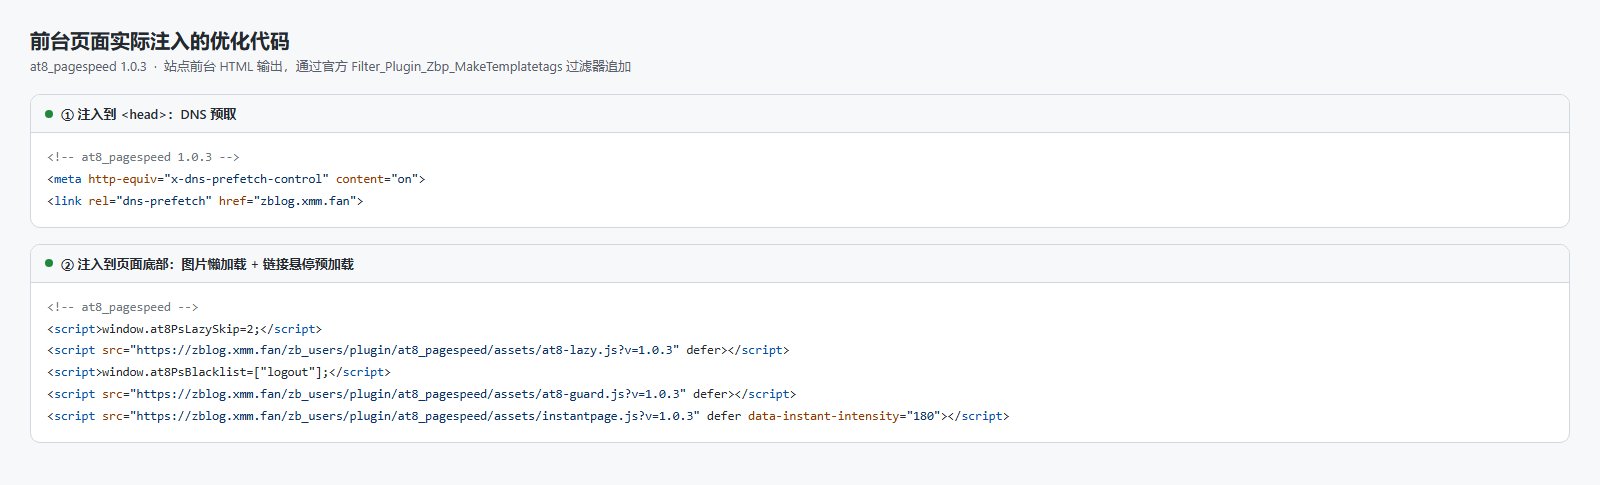
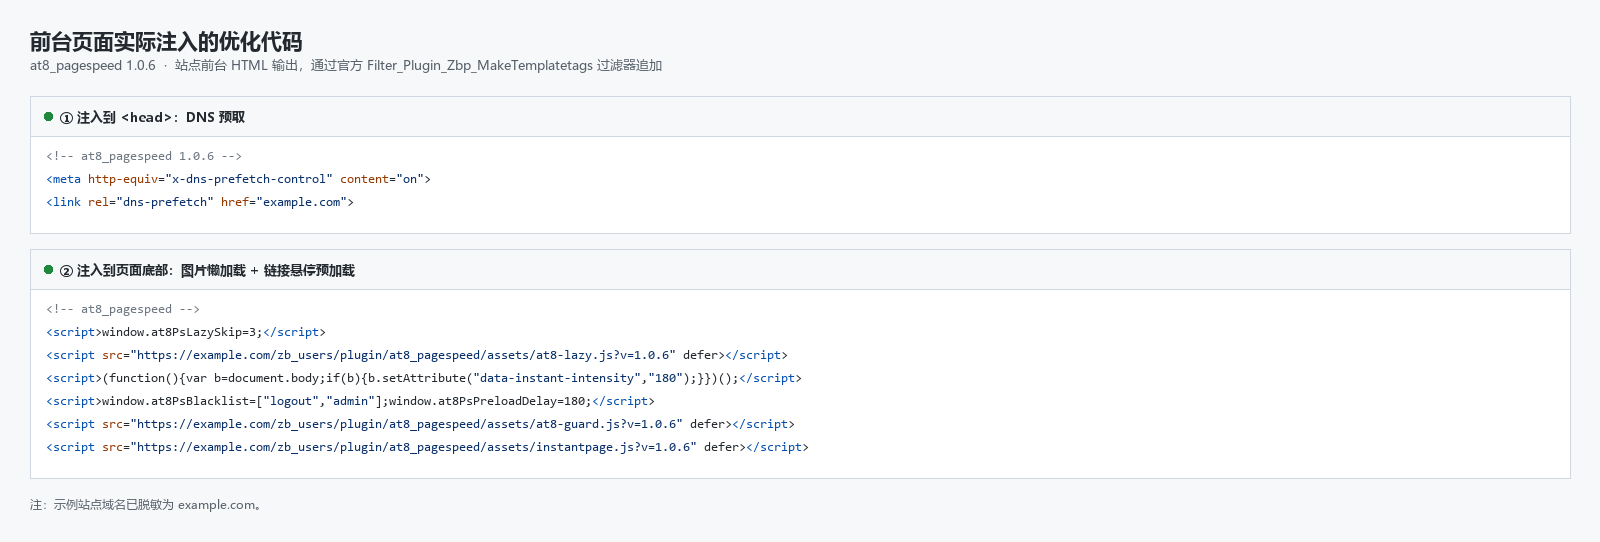
docs(合规收尾): README/CHANGELOG/RELEASE_CHECKLIST 清理 PHP 5.x 遗留表述、统一最低 PHP 为 7.4；刷新脱敏后的上架截图 (v1.0.6)

diff --git a/CHANGELOG.md b/CHANGELOG.md
@@ -20,7 +20,7 @@
   3. 源码未使用任何 PHP 8.0+ 专有语法——已全量扫描确认无 `?->`、`match` 表达式、
      `str_contains` / `str_starts_with` / `str_ends_with`、`#[Attribute]`、构造器提升、
      联合类型、`enum`、`readonly`、`never`、命名参数。
-  原先声明 5.6 属「语法够用即放行」，现改为只放行做过兼容性承诺的版本区间。
+  原先按「语法够用即放行」声明，现改为只放行做过兼容性承诺的版本区间。
 - **DNS 预取域名改为「保存时即归一化」**（纵深防御）：
   原先只在输出到前台时校验，库里存的是用户原始输入（含 `not a domain`、`http://evil.com/x`、
   `<script>alert(1)</script>` 这类脏数据）。现抽出 `at8_pagespeed_normalize_domain()`，
@@ -74,9 +74,7 @@
     与「不承诺固定提速数值」。
 
 - **元数据**：
-  - `<phpver>` 的依据注释与源码注释对齐：代码语法与函数最低要求 5.4（`JSON_UNESCAPED_UNICODE`），
-    声明下限取 **5.6**——5.4 / 5.5 未做实测故不作兼容承诺（原注释写「仅使用 PHP 5.4+ 通用语法」但声明 5.6，
-    理由与取值不一致）；
+  - `<phpver>` 的依据注释与源码注释对齐（当时声明的 PHP 下限已于 **1.0.5** 提高至 **7.4**）；
   - `<adapted>` 补充取值依据：与 `$zbp->version` 做数值比较（`lib/app.php` 的 `CheckCompatibility()`），
     1.7.x 的 `$zbp->version` 为 `MAJOR.MINOR.COMMIT`（如 1.7.5 Build 3540 → `173540`），
     取 `172900` 表示面向 1.7 系列、可拦住 1.6 及更早版本；
@@ -115,7 +113,7 @@
   配置作为站点级偏好保留、重装自动沿用；
 - **安装幂等**：`InstallPlugin_at8_pagespeed()` 仅补齐缺失配置键，不再覆盖用户已保存的值；新增 `UpdatePlugin_at8_pagespeed()`（按 `ConfigVer` 迁移）与旧版钩子别名；
 - **输出转义**：设置页 `lang` 属性输出经 `htmlspecialchars` 处理；
-- **元数据**：`plugin.xml` 补充 `<description>`、显式声明 `<phpver>5.6</phpver>`（原打包脚本写死 5.2，与实际无关）；
+- **元数据**：`plugin.xml` 补充 `<description>`、显式声明 `<phpver>`（原打包脚本写死 5.2，与实际无关；当前值为 **7.4**，见 1.0.5）；
 - 新增 `LICENSE` / `CHANGELOG.md` / `RELEASE_CHECKLIST.md`。
 
 ## 1.0.0（2026-09-23）

diff --git a/README.md b/README.md
@@ -134,7 +134,7 @@
 - **新增容器级预加载排除**：instant.page 只读取 `<a>` 自身的 `data-no-instant`，不支持在容器上一次声明整块排除。现由守卫脚本沿父链查找 `data-no-instant`，命中即为容器内所有链接补标记，导航 / 挂件 / 评论区可整块关闭预加载（动态插入的容器同样生效）；
 - **懒加载保守化与性能修正**：新增「已有 `fetchpriority` 属性不处理」与「未渲染 / `display:none` 元素不处理」（后者原先注释已声称跳过但代码并未实现）；祖先 `data-no-lazy` 判定不再依赖 `Element.closest`；改为「先测量、后写入」两趟处理，消除边读边写导致的强制重排；
 - **文档**：README 重写「兼容性」为正式说明（运行环境 / 主题与插件 / 浏览器 / 已知限制），去除「零侵入」「任何主题」「几乎零等待」等绝对化表述；**修正 README 中与代码矛盾的「卸载会删除配置」描述**（实际为不删除，见「生命周期与数据」）；
-- **元数据**：`plugin.xml` 的 `<phpver>` 依据注释与源码注释对齐（语法最低 5.4、声明下限 5.6 的理由），补充 `<adapted>` 的取值依据。
+- **元数据**：补充 `<adapted>` 的取值依据（与系统 `$zbp->version` 做数值比较，`172900` 面向 1.7 系列、可拦住 1.6 及更早版本）。
 
 ### 1.0.3（2026-09-23）
 

diff --git a/RELEASE_CHECKLIST.md b/RELEASE_CHECKLIST.md
@@ -148,7 +148,7 @@
 ### 8.1 全新安装（干净站点，从未装过）
 
 - [x] **A1** 应用中心上传 `zba` → 安装成功，无报错、无 `ShowError`
-  - 判定：插件目录出现且文件数 = 包内文件数（当前 **9**）
+  - 判定：插件目录出现且文件数 = 包内文件数（当前 **10**）
 - [x] **A2** 插件列表启用 → 成功，前台立即生效
   - 判定：前台源码出现 `<!-- at8_pagespeed <版本> -->` 注释
 - [x] **A3** 配置初始化正确
@@ -200,7 +200,7 @@
   - 判定：目录内文件数 = 包内文件数，无旧版本残留文件
 - [x] **E5** 升级后无 `.git` / `cache` / `screenshots` 等不应出现的目录
   - 判定：`find` 无命中（`cache/` 为运行时目录属例外，见 8.6）
-- [x] **E6** 实测记录：1.0.2 → 1.0.3 → 1.0.4 均通过
+- [x] **E6** 实测记录：1.0.2 → 1.0.3 → 1.0.4 → 1.0.5 均通过（1.0.6 仅调整 JS 注入转义标志与文档表述，未变更生命周期逻辑，沿用 1.0.5 结论）
 
 ### 8.6 卸载（删除应用）
 
